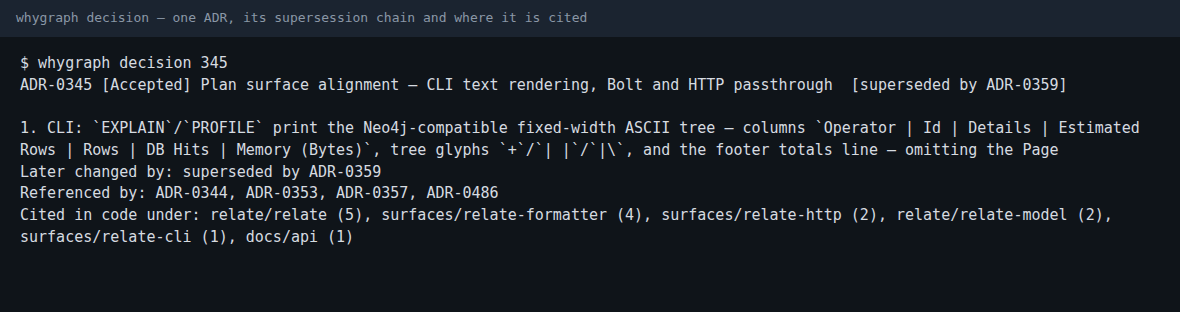
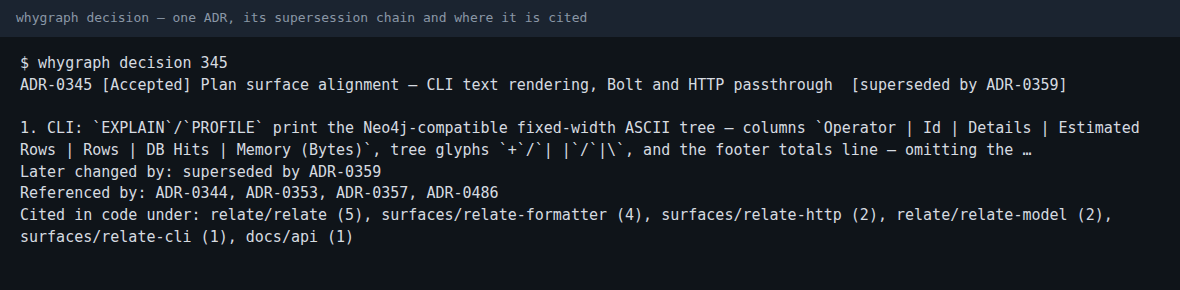
fix: mark clipped decision summaries, state the eval split honestly, re-cut the video (#4)
Decision summaries cut at 240 characters now end at a word with an ellipsis. The narration, eval screen and SUBMISSION now say the graph won the decision task at the 70% split only; full text tied at 50% and won at 85%. New video https://youtu.be/EBa4CtHUoP4 (97.4 s).

Changed region(s): [[0.0, 0.3724, 0.9763, 0.8379], [0.0, 0.1862, 0.9153, 0.3103], [0.0, 0.031, 0.4881, 0.0931]]

diff --git a/whygraph/query.py b/whygraph/query.py
@@ -17,6 +17,17 @@ RRF_K = 60
 BASIS = ("cited in the file", "cited by a commit that touched the file", "cited by a file that changes with it")
 
 
+SUMMARY_CHARS = 240
+
+
+def clip(text: str, n: int = SUMMARY_CHARS) -> str:
+    """Shorten at a word boundary and mark the cut, so a clipped summary never reads as the whole decision."""
+    text = text or ""
+    if len(text) <= n:
+        return text
+    return text[:n].rsplit(" ", 1)[0].rstrip(" ,;:-\u2014") + " \u2026"
+
+
 def path_tokens(path: str) -> set:
     return {t for t in re.split(r"[^A-Za-z0-9]+", path.lower()) if len(t) > 2}
 
@@ -210,7 +221,7 @@ class WhyGraph:
             if did not in info:
                 continue
             row = dict(info[did])
-            row["summary"] = (row["summary"] or "")[:240]
+            row["summary"] = clip(row["summary"])
             row["updated_by"] = newer.get(did, [])
             if score is not None:
                 row["score"] = round(score[did], 3)

diff --git a/tests/test_whygraph.py b/tests/test_whygraph.py
@@ -6,7 +6,7 @@ import relate
 
 from whygraph import mcp
 from whygraph.build import build, parse_adr
-from whygraph.query import NotFound, WhyGraph
+from whygraph.query import NotFound, WhyGraph, clip
 
 
 @pytest.fixture()
@@ -107,6 +107,13 @@ def test_decision_basis_names_strongest_evidence(wg):
     assert wal[0]["id"] == "ADR-0001" and wal[0]["basis"] == "cited in the file"
     cache = {d["id"]: d for d in wg.why("src/cache.rs")["decisions"]}
     assert cache["ADR-0002"]["basis"] == "cited by a commit that touched the file"
+
+
+def test_clipped_summaries_are_marked():
+    long = "word " * 80
+    out = clip(long, 50)
+    assert out.endswith(" \u2026") and len(out) <= 52 and "wor \u2026" not in out
+    assert clip("short summary", 50) == "short summary"
 
 
 def test_queries_leave_the_store_untouched(repo, tmp_path):

diff --git a/SUBMISSION.md b/SUBMISSION.md
@@ -14,7 +14,7 @@ Coding agents edit files without knowing the reasons behind them. The reasons li
 
 whygraph turns a git repository into a graph inside an embedded Relate store: people, commits, files and decisions (ADRs), with edges for who authored what, what each commit touched, which ADRs commits and source files cite, and which ADRs amend or supersede which. One call, `why_file`, returns what an agent needs before editing: the decisions that govern the file ranked with the evidence for each ("cited in this file", "2 commits touching it cite it", "3 files that change with it cite it"), whether a newer decision supersedes them, who to ask (recency-weighted), the files that usually change with it, and its recent commits. Other tools search decisions by text, show one decision with its supersession chain and where it is cited in code, and find files.
 
-It runs in-process (one `.rl` file, no server, indexes the 483-commit / 566-ADR Relate repository in about 6 seconds) and speaks MCP, so Claude Code, Cursor or Codex can call it directly. A small honest eval replays later commits against a graph built from earlier ones: graph traversal finds the governing ADR where text search and grep fail (12 tasks, hit@5 0.83 vs 0.33 for full text, small sample), fusing history with folder and name signals gives the best co-change prediction (hit@10 0.69 vs 0.65 for name overlap, intervals overlap), and for "who to ask" simply asking the top committer is hard to beat on a repository with one dominant author. The write-up reports where the graph does not win.
+It runs in-process (one `.rl` file, no server, indexes the 483-commit / 566-ADR Relate repository in about 6 seconds) and speaks MCP, so Claude Code, Cursor or Codex can call it directly. A small honest eval replays later commits against a graph built from earlier ones: graph traversal found the governing ADR more often than text search at the 70% split (12 tasks, hit@5 0.83 vs 0.33 for full text), while full text tied it at 50% and beat it at 85% (7 and 3 tasks), fusing history with folder and name signals gives the best co-change prediction (hit@10 0.69 vs 0.65 for name overlap, intervals overlap), and for "who to ask" simply asking the top committer is hard to beat on a repository with one dominant author. The write-up reports where the graph does not win.
 
 **Built with:** Relate embedded database (`relate-db` Python binding), Cypher, full-text indexes, MCP, Python standard library, git, pytest.
 
@@ -33,7 +33,7 @@ Claude Code (Anthropic; Claude models) did this work under the entrant's standin
 
 **IP note:** entering grants Neo4j a non-exclusive licence to the submitted material; the code is Apache-2.0 anyway.
 
-**Demo:** https://youtu.be/HeGUeetA998 (1:32). Six terminal screens with a synthetic voice (Piper TTS, en_US-joe-medium): title, `why`, a real Claude Code session calling `why_file` over MCP, `search`, `decision`, and the eval. Rebuild it with `demo/render_screens.py` and `demo/make_video.py` from `demo/narration.json` and the `.txt` sources in `docs/screenshots/`; the builder refuses to write a video over the 2-minute limit. The screen texts are real command output, and the MCP screen is an excerpt of the Claude Code transcript.
+**Demo:** https://youtu.be/EBa4CtHUoP4 (1:38). Six terminal screens with a synthetic voice (Piper TTS, en_US-joe-medium): title, `why`, a real Claude Code session calling `why_file` over MCP, `search`, `decision`, and the eval. Rebuild it with `demo/render_screens.py` and `demo/make_video.py` from `demo/narration.json` and the `.txt` sources in `docs/screenshots/`; the builder refuses to write a video over the 2-minute limit. The screen texts are real command output, and the MCP screen is an excerpt of the Claude Code transcript.
 
 **Setup instructions (paste):**
 ```

diff --git a/README.md b/README.md
@@ -6,7 +6,7 @@ the repository's own history: the architecture decisions (ADRs) that govern the 
 and the files that change with it. It runs in-process (no server, one `.rl` file) and speaks MCP, so Claude Code,
 Cursor or Codex can call it as a tool.
 
-Demo video (1:32): https://youtu.be/HeGUeetA998
+Demo video (1:38): https://youtu.be/EBa4CtHUoP4
 
 ![why](docs/screenshots/1_why.png)
 
